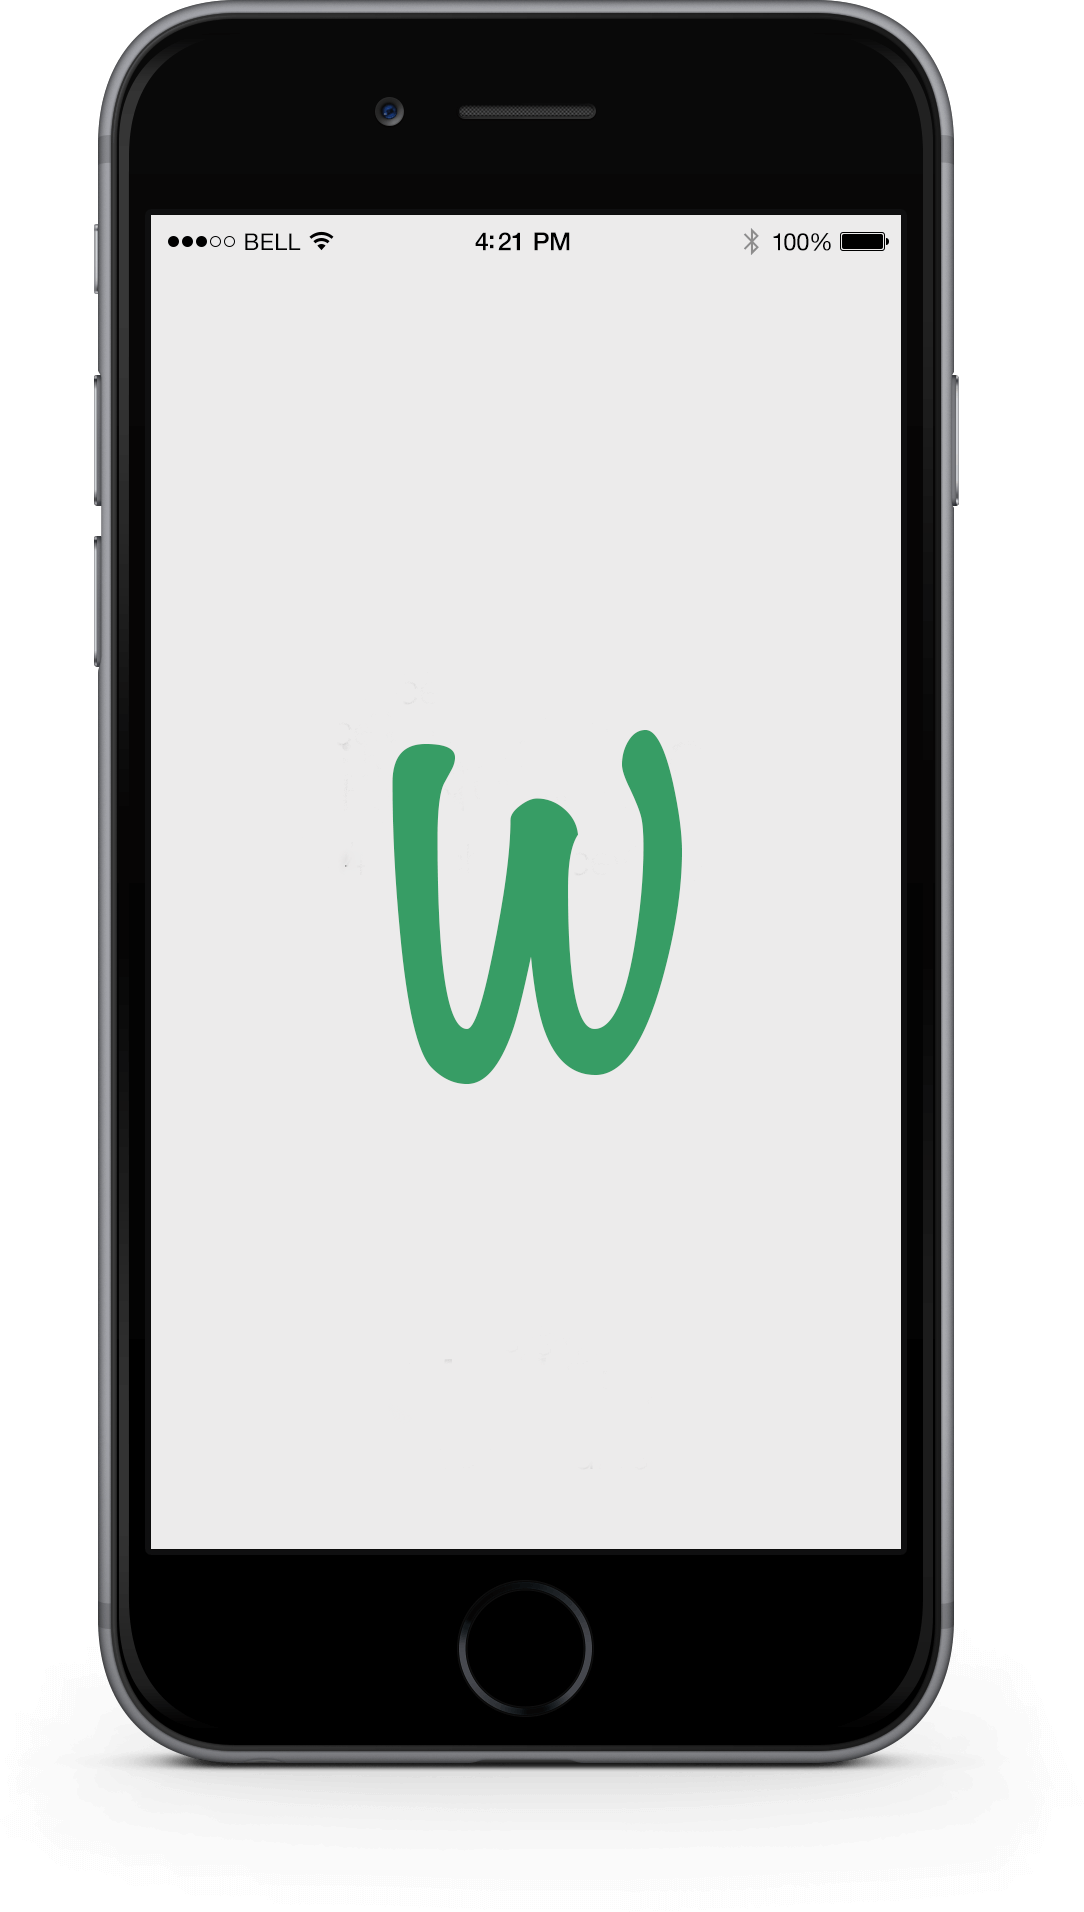
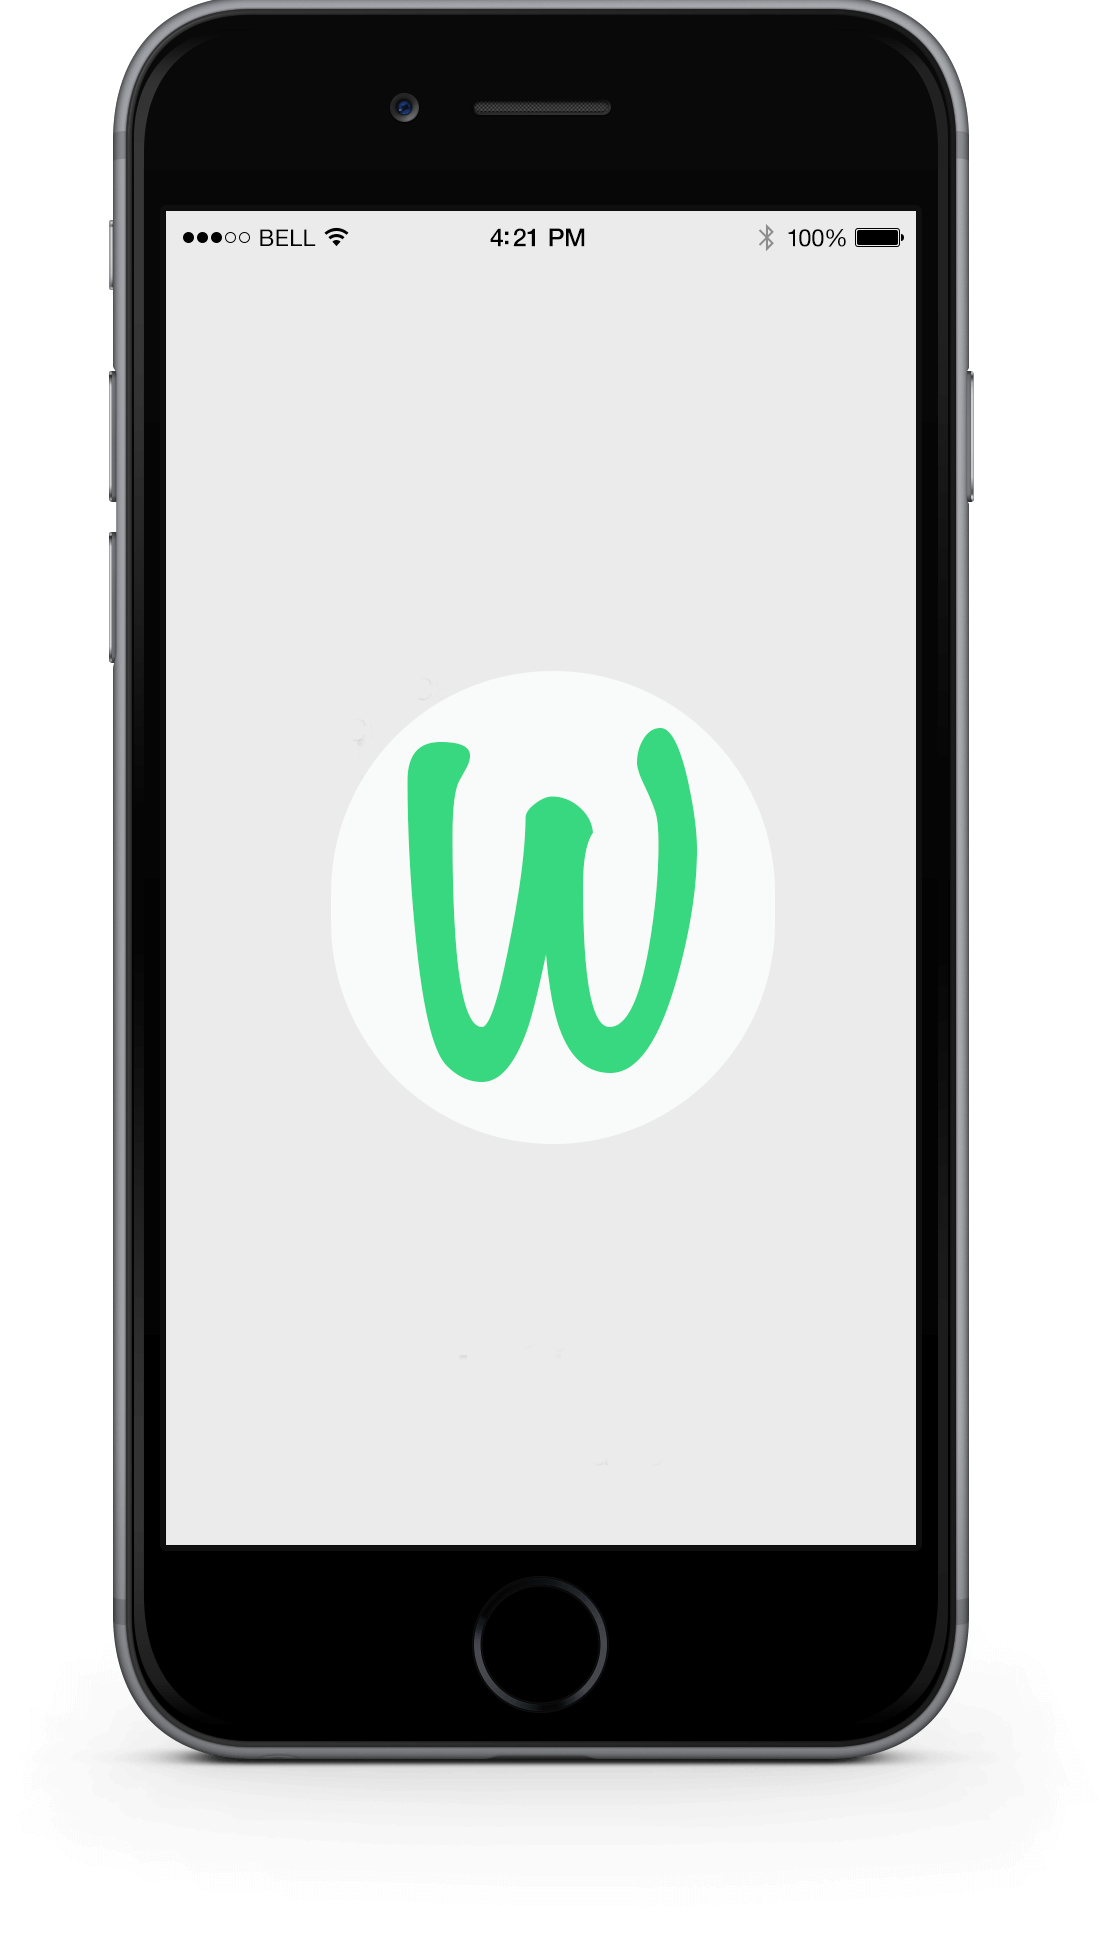
Fixed the app image

Changed region(s): [[0.0609, 0.0, 0.8828, 0.9257], [0.3349, 0.3703, 0.6393, 0.5863], [0.1827, 0.0, 0.822, 0.0617]]

diff --git a/client/src/auth/Login.css b/client/src/auth/Login.css
@@ -76,11 +76,10 @@ width: auto;
 max-width: 160px;
 max-height: 160px;
 border-radius: 50%;
-border: 0.15px solid #0fa955;
+border: 0.1px solid #99c6ae;
 display: block;
     margin-left: auto;
     margin-right: auto;
-    border-style: dotted;
 }
 
 .ComingSoon{
